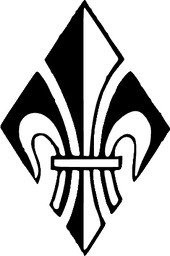
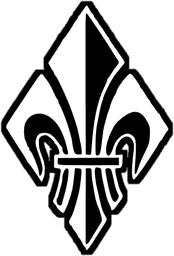
Brand: the Lilie as printed, never inverted
Light mode drew the lily in ink, which turned the letterhead's white lily with
black shading into a black lily. Two masks from the emblem on one canvas now:
light mode draws the emblem's black (shading, lines, a thin band of its field)
so the lily stays white on the paper, dark mode the white lily itself;
light-dark() picks one. The favicon uses the light one.

Claude-Session: https://claude.ai/code/session_01MrfUs1yTGCHUP6afURvz47

diff --git a/src/components/brand/index.tsx b/src/components/brand/index.tsx
@@ -1,23 +1,32 @@
 import { cn } from "@/lib/utils";
 
+import lilieDark from "./dpb-lilie-dark.png";
 import lilie from "./dpb-lilie.png";
 
-const MASK = `url(${lilie.src}) center / contain no-repeat`;
+const mask = (src: string) => {
+  const m = `url(${src}) center / contain no-repeat`;
+  return { mask: m, WebkitMask: m };
+};
 
 /**
- * The Lilie from the DPB letterhead emblem, cut free of its black field (sidebar,
- * mobile top bar, standalone pages). Drawn as a mask filled with the ink token, so
- * it follows light and dark without a second image; forced-color-adjust keeps the
- * ink in Windows High Contrast, where the background would otherwise be repainted
- * away. Keeps its aspect ratio: set the height through className. Decorative: the
- * wordmark or title next to it already names the page.
+ * The Lilie from the DPB letterhead emblem (sidebar, mobile top bar, standalone
+ * pages), never inverted: a white lily with black shading, as printed. Without the
+ * emblem's black field, so light mode draws the emblem's black (shading, lines, a
+ * thin band of the field) on the paper, dark mode the white lily on the dark page.
+ * Both are masks filled with the ink token, stacked, and light-dark() shows one;
+ * forced-color-adjust keeps the ink in Windows High Contrast. Keeps its aspect
+ * ratio (both images share one canvas): set the height through className.
+ * Decorative: the wordmark or title next to it already names the page.
  */
 export function Lilie({ className }: { className?: string }) {
   return (
     <span
       aria-hidden
-      className={cn("block shrink-0 bg-ink forced-color-adjust-none", className)}
-      style={{ aspectRatio: `${lilie.width} / ${lilie.height}`, mask: MASK, WebkitMask: MASK }}
-    />
+      className={cn("grid shrink-0 forced-color-adjust-none *:col-start-1 *:row-start-1", className)}
+      style={{ aspectRatio: `${lilie.width} / ${lilie.height}` }}
+    >
+      <span className="bg-[light-dark(var(--ink),transparent)]" style={mask(lilie.src)} />
+      <span className="bg-[light-dark(transparent,var(--ink))]" style={mask(lilieDark.src)} />
+    </span>
   );
 }
